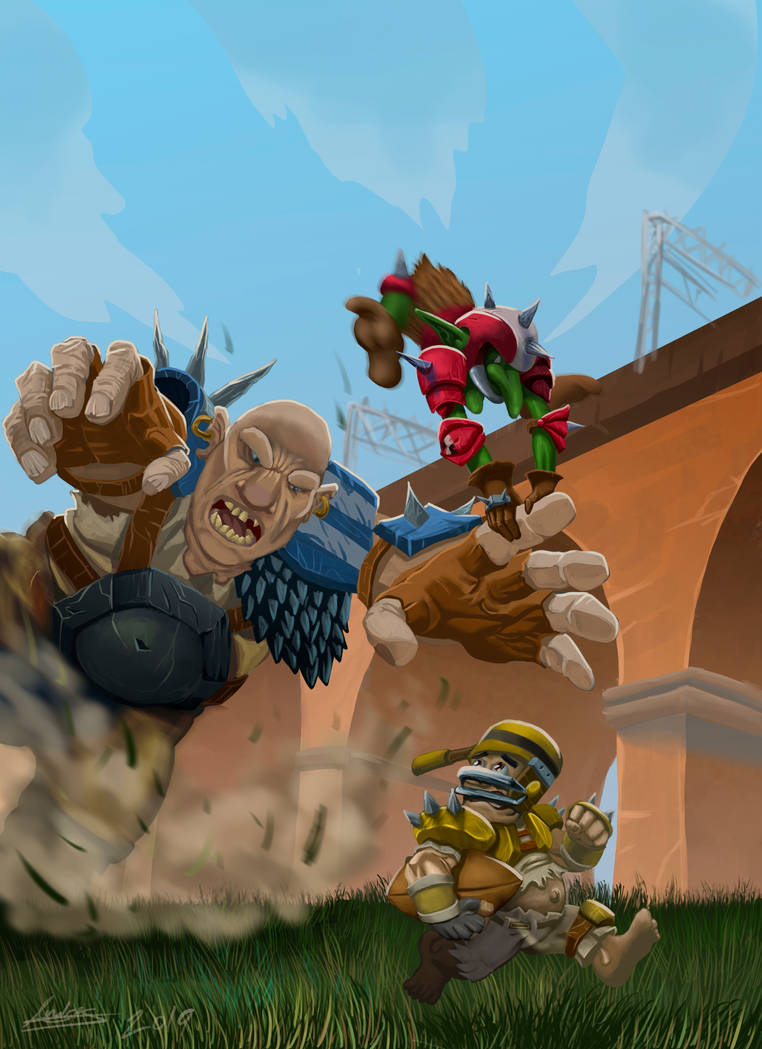
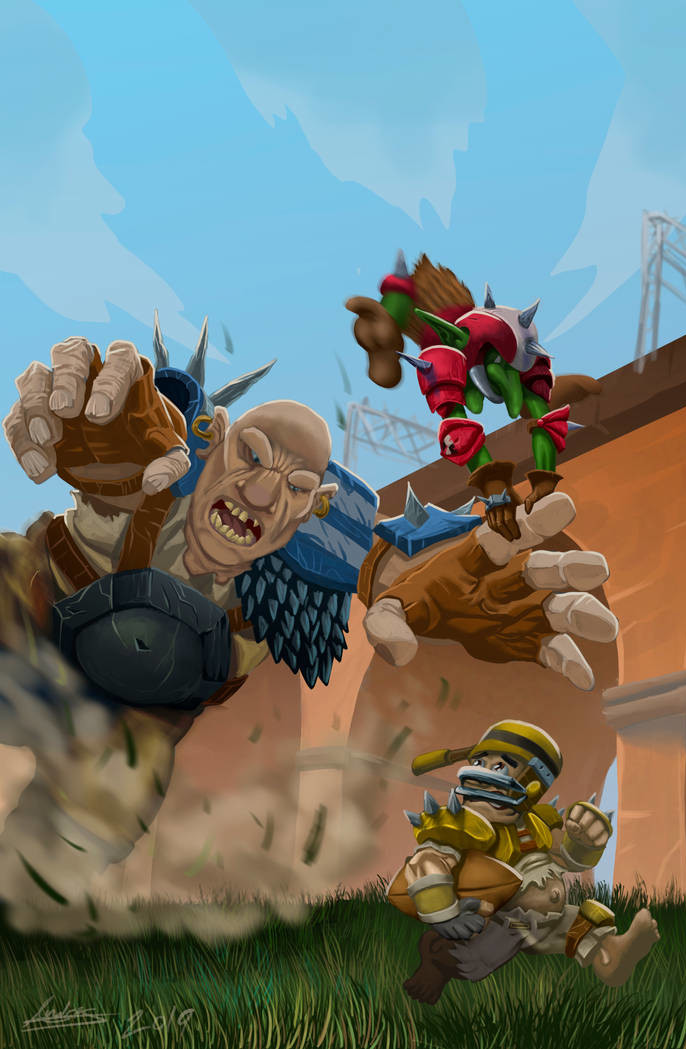
Recortes de imágenes

diff --git a/jugadora-crunchball.md b/jugadora-crunchball.md
@@ -12,7 +12,7 @@ ___
 Si puedes aguantar en pie un partido completo de CrunchBall, entrar a una mazmorra o enfrentarte a un dragón te parecerá un camino de rosas.
 }}
 
-![background image](https://raw.githubusercontent.com/gwannon/DnD-5e-CrunchBall/refs/heads/main/jcb.webp){position:absolute,top:0,left:0,width:100%}
+![background image](https://raw.githubusercontent.com/gwannon/DnD-5e-CrunchBall/refs/heads/main/portada.jpg){position:absolute,top:0,right:0,height:100%}
 
 \page
 
@@ -220,7 +220,7 @@ Empiezas con el siguiente equipo, además del equipo que te concede tu trasfondo
 
 \column
 
-![Corredor](https://raw.githubusercontent.com/gwannon/DnD-5e-CrunchBall/refs/heads/main/jcb.webp) {width:325px,mix-blend-mode:multiply}
+![Corredor](https://raw.githubusercontent.com/gwannon/DnD-5e-CrunchBall/refs/heads/main/contraportada.jpg) {width:325px,mix-blend-mode:multiply}
 
 * Cualquier arma sencilla.
 * Armadura simple.
@@ -450,6 +450,15 @@ xxx
 
 \page
 
+# Atribuciones
+
+* [Portada](https://www.deviantart.com/romcova/art/Enano-Bowl-786530420) de [RomCova](https://www.deviantart.com/romcova/)
+* [Contraportada](https://www.deviantart.com/romcova/art/STUNTY-SLAM-787500370) de [RomCova](https://www.deviantart.com/romcova/)
+
+{{pageNumber 12}}
+
+\page
+
 {{backCover}}
 
 # Esto es CrunchBall
@@ -465,7 +474,7 @@ ___
 
 xxx Lorem ipsum dolor sit amet, consectetur adipiscing elit, sed do eiusmod tempor incididunt ut labore et dolore magna aliqua. Ut enim ad minim veniam, quis nostrud exercitation ullamco laboris nisi ut aliquip ex ea commodo consequat. Duis aute irure dolor in reprehenderit in voluptate velit esse cillum dolore eu fugiat nulla pariatur. Excepteur sint occaecat cupidatat non proident, sunt in culpa qui officia deserunt mollit anim id est laborum.
 
-![background image](https://raw.githubusercontent.com/gwannon/DnD-5e-CrunchBall/refs/heads/main/jcb.webp){position:absolute,top:0,left:0,width:100%}
+![background image](https://raw.githubusercontent.com/gwannon/DnD-5e-CrunchBall/refs/heads/main/contraportada.jpg){position:absolute,top:0,left:0,width:100%}
 
 {{logo
 ![](/assets/naturalCritLogoWhite.svg)

diff --git a/README.md b/README.md
@@ -4,9 +4,10 @@ Desarrollo usando OPEN GAME	LICENSE	Version	1.0a
 
 El diseño se ha hecho con [THE HOMEBREWERY](https://homebrewery.naturalcrit.com/)
 
-## Atribuciones
+# Atribuciones
 
-[Balón](https://www.rawpixel.com/image/14731354/png-american-football-ball-american-football-sports-rugby)
+* [Portada](https://www.deviantart.com/romcova/art/Enano-Bowl-786530420) de [RomCova](https://www.deviantart.com/romcova/)
+* [Contraportada](https://www.deviantart.com/romcova/art/STUNTY-SLAM-787500370) de [RomCova](https://www.deviantart.com/romcova/)
 
 ## Comandos MD especiales
 
@@ -42,3 +43,4 @@ El diseño se ha hecho con [THE HOMEBREWERY](https://homebrewery.naturalcrit.com
 * https://www.deviantart.com/lanzaestudio/
 * https://www.deviantart.com/lanzaestudio/art/Orc-Fantasy-Football-Iron-Golems-645877134
 
+https://www.deviantart.com/romcova/art/Enano-Bowl-786530420
